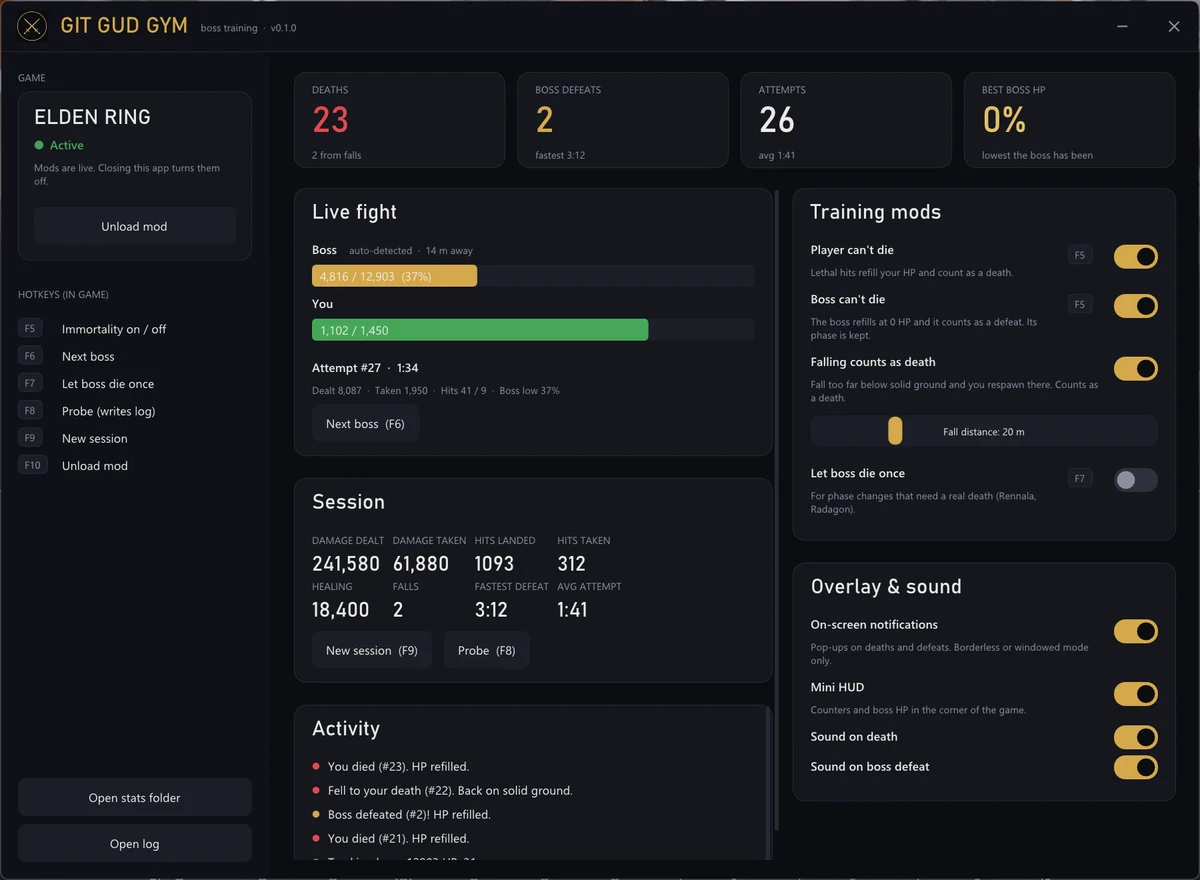
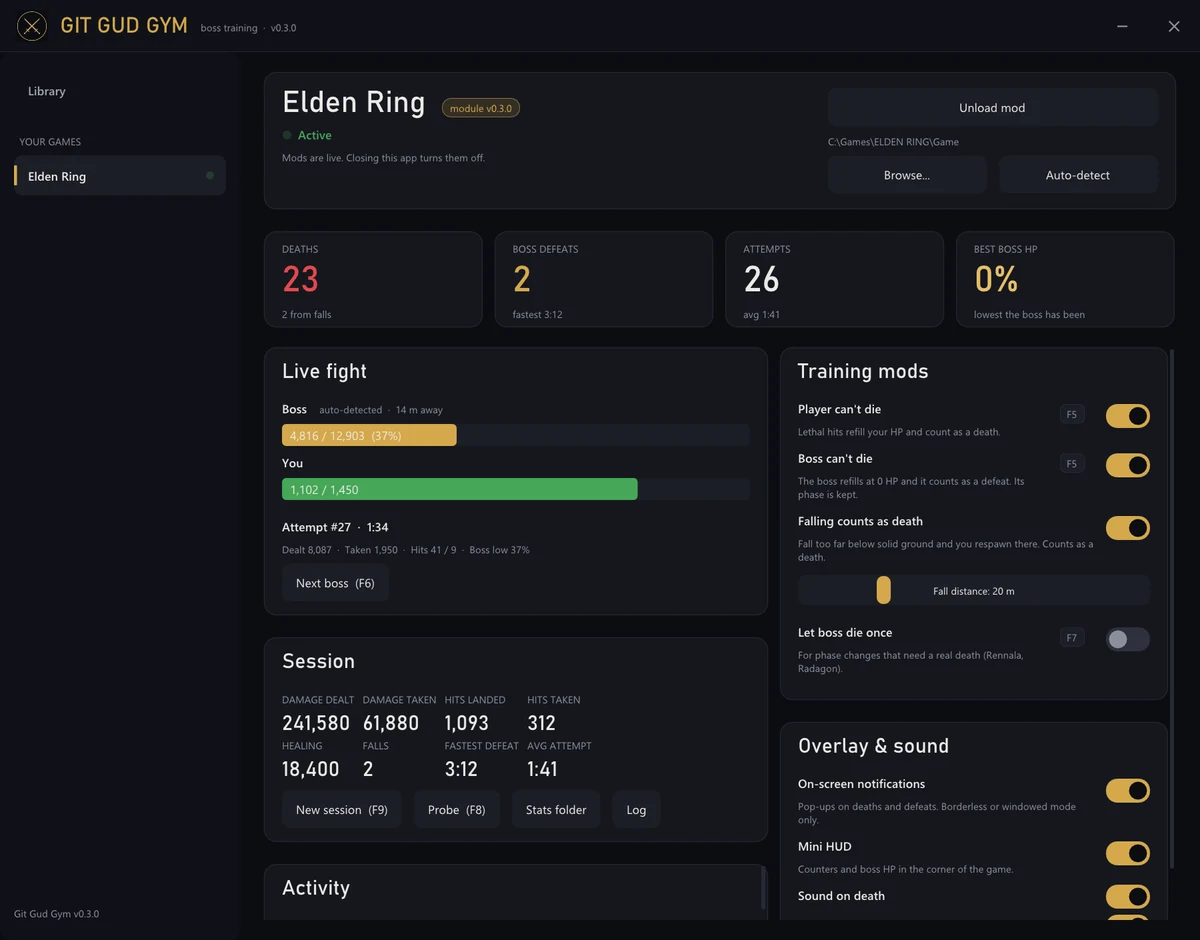
Show the current hub app, add a link-preview card, fix showcase crops

diff --git a/src/components/home/Showcase.tsx b/src/components/home/Showcase.tsx
@@ -3,7 +3,7 @@ import { AnimatePresence, motion } from "framer-motion";
 import { asset } from "../../config";
 import { Reveal, SectionHeading } from "../ui";
 
-/** A region of docs/images/app.png (1200 x 880), in source pixels. */
+/** A region of public/app.webp (1200 x 940, the game page), in source pixels. */
 interface Region {
   x: number;
   y: number;
@@ -37,7 +37,7 @@ const tabs: { id: string; label: string; title: string; body: string; region: Re
     label: "At a glance",
     title: "The numbers that matter",
     body: "Deaths (and how many were falls), boss defeats with your fastest time, attempts with the average length, and the lowest HP you've taken the boss to.",
-    region: { x: 294, y: 72, w: 882, h: 96 },
+    region: { x: 263, y: 229, w: 914, h: 100 },
     alt: "Counters: 23 deaths, 2 from falls; 2 boss defeats, fastest 3:12; 26 attempts, average 1:41; best boss HP 0%.",
   },
   {
@@ -45,7 +45,7 @@ const tabs: { id: string; label: string; title: string; body: string; region: Re
     label: "Live fight",
     title: "Watch the fight as it happens",
     body: "Live HP bars for you and the auto-detected boss, plus the current attempt's timer, damage dealt and taken, hits and the boss's lowest HP.",
-    region: { x: 294, y: 189, w: 479, h: 267 },
+    region: { x: 263, y: 345, w: 507, h: 271 },
     alt: "Live fight panel with the boss HP bar at 37%, the player HP bar, and attempt 27 stats.",
   },
   {
@@ -53,7 +53,7 @@ const tabs: { id: string; label: string; title: string; body: string; region: Re
     label: "Training mods",
     title: "Toggle what you need",
     body: "Player can't die, boss can't die, falls count as deaths (with an adjustable fall distance) and let the boss die once for scripted phase changes. Each has a hotkey.",
-    region: { x: 793, y: 189, w: 383, h: 353 },
+    region: { x: 779, y: 345, w: 390, h: 357 },
     alt: "Training mods panel with switches for player can't die, boss can't die, falling counts as death with a fall distance slider, and let boss die once.",
   },
   {
@@ -61,7 +61,7 @@ const tabs: { id: string; label: string; title: string; body: string; region: Re
     label: "Session",
     title: "See the whole session",
     body: "Totals across every attempt: damage, hits, healing, falls, fastest defeat and average attempt. Start a new session any time with F9.",
-    region: { x: 294, y: 479, w: 479, h: 203 },
+    region: { x: 263, y: 635, w: 507, h: 209 },
     alt: "Session panel with total damage dealt and taken, hits landed and taken, healing, falls, fastest defeat and average attempt.",
   },
 ];

diff --git a/index.html b/index.html
@@ -13,6 +13,14 @@
     <meta property="og:type" content="website" />
     <meta property="og:title" content="Git Gud Gym" />
     <meta property="og:description" content="Endless boss practice for souls-likes. Free and open source, for Windows." />
+    <meta property="og:url" content="https://git-gud-gym.github.io/" />
+    <meta property="og:site_name" content="Git Gud Gym" />
+    <meta property="og:image" content="https://git-gud-gym.github.io/social.png" />
+    <meta property="og:image:width" content="1200" />
+    <meta property="og:image:height" content="630" />
+    <meta property="og:image:alt" content="Git Gud Gym: endless boss practice for souls-likes" />
+    <meta name="twitter:card" content="summary_large_image" />
+    <meta name="twitter:image" content="https://git-gud-gym.github.io/social.png" />
     <link rel="icon" type="image/png" href="/favicon.png" />
     <link rel="apple-touch-icon" href="/apple-touch-icon.png" />
   </head>
